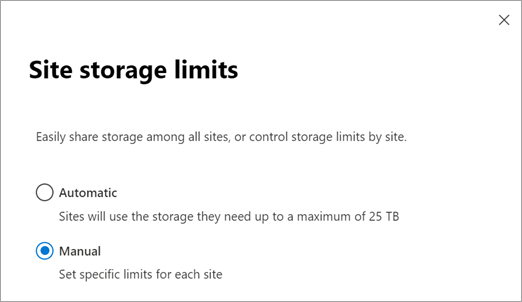
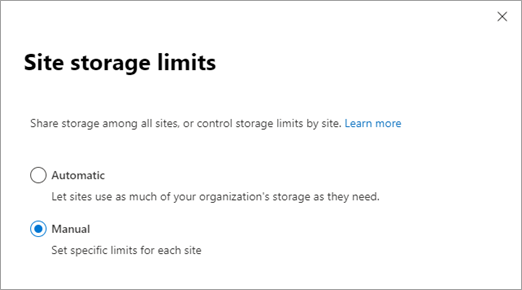
Updated screenshots

diff --git a/SharePoint/SharePointOnline/intro-to-file-collaboration.md b/SharePoint/SharePointOnline/intro-to-file-collaboration.md
@@ -245,7 +245,7 @@ To set up external sharing in your organization, you need to make sure that sett
 
 By default, file storage for team sites is managed automatically. If you prefer to control storage manually, see [Manage site storage limits](https://docs.microsoft.com/sharepoint/manage-site-collection-storage-limits). For info about setting the default storage space for individual libraries in OneDrive, see [Set the default storage space for OneDrive users](https://docs.microsoft.com/onedrive/set-default-storage-space). For information about the amount of storage that comes with your plan, see [SharePoint Online limits](https://docs.microsoft.com/office365/servicedescriptions/sharepoint-online-service-description/sharepoint-online-limits).
 
-![Managing site storage limits](media/sp-collabguide17.png)
+![Managing site storage limits](media/site-storage-limits.png)
 
 ### Specify team site libraries to sync automatically
 
